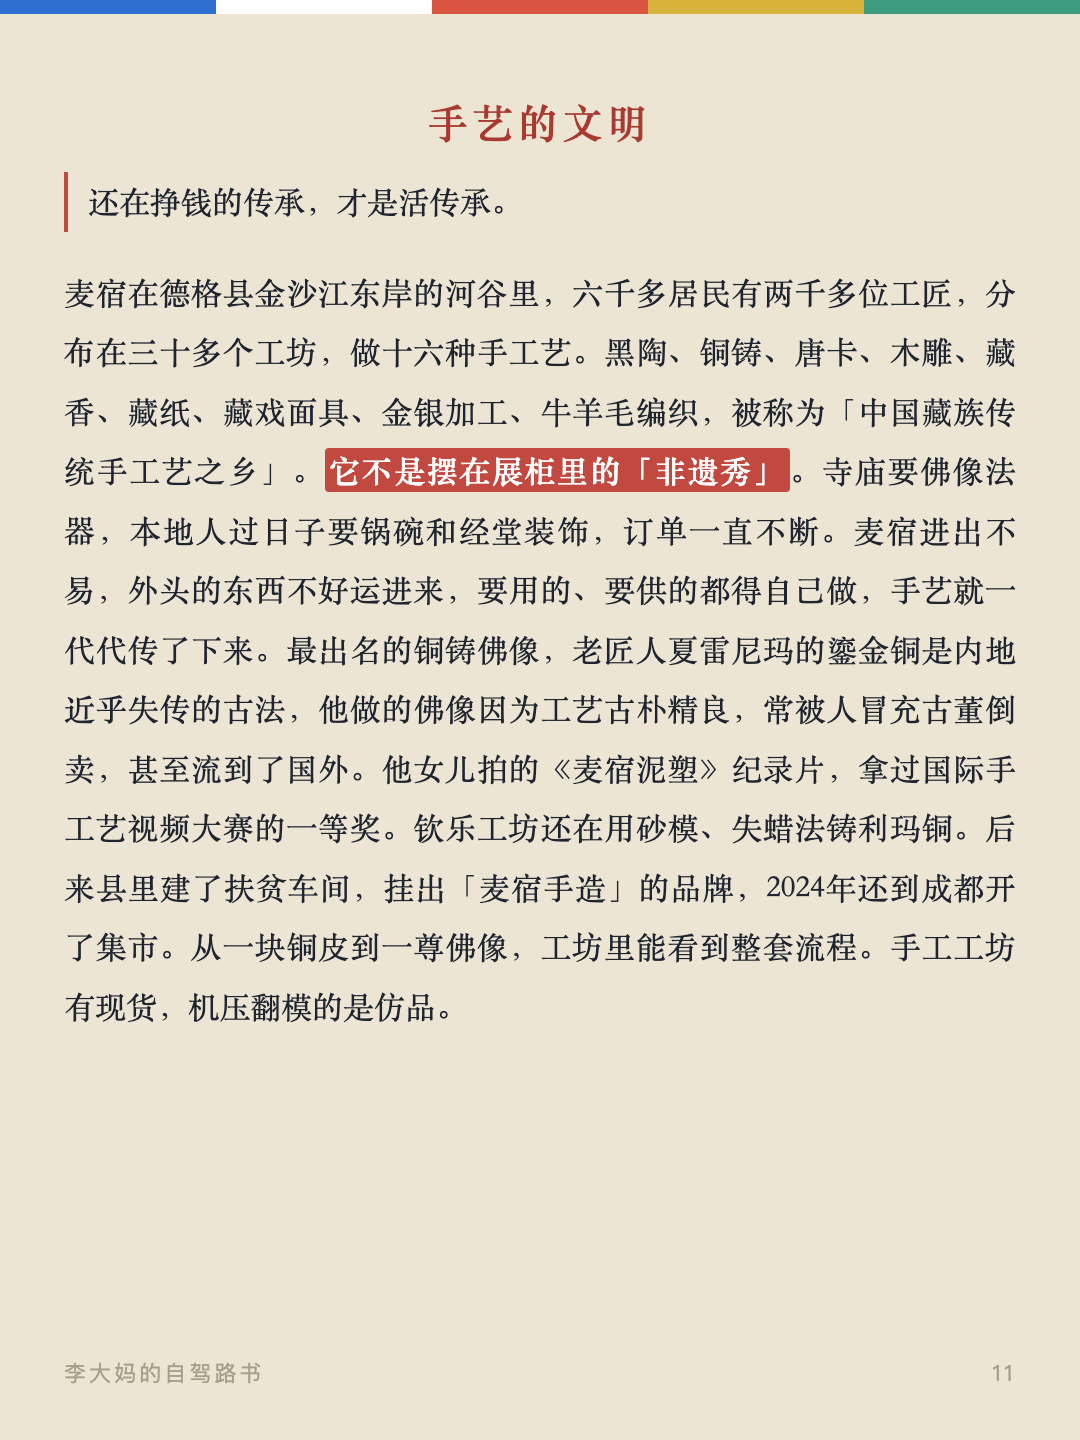
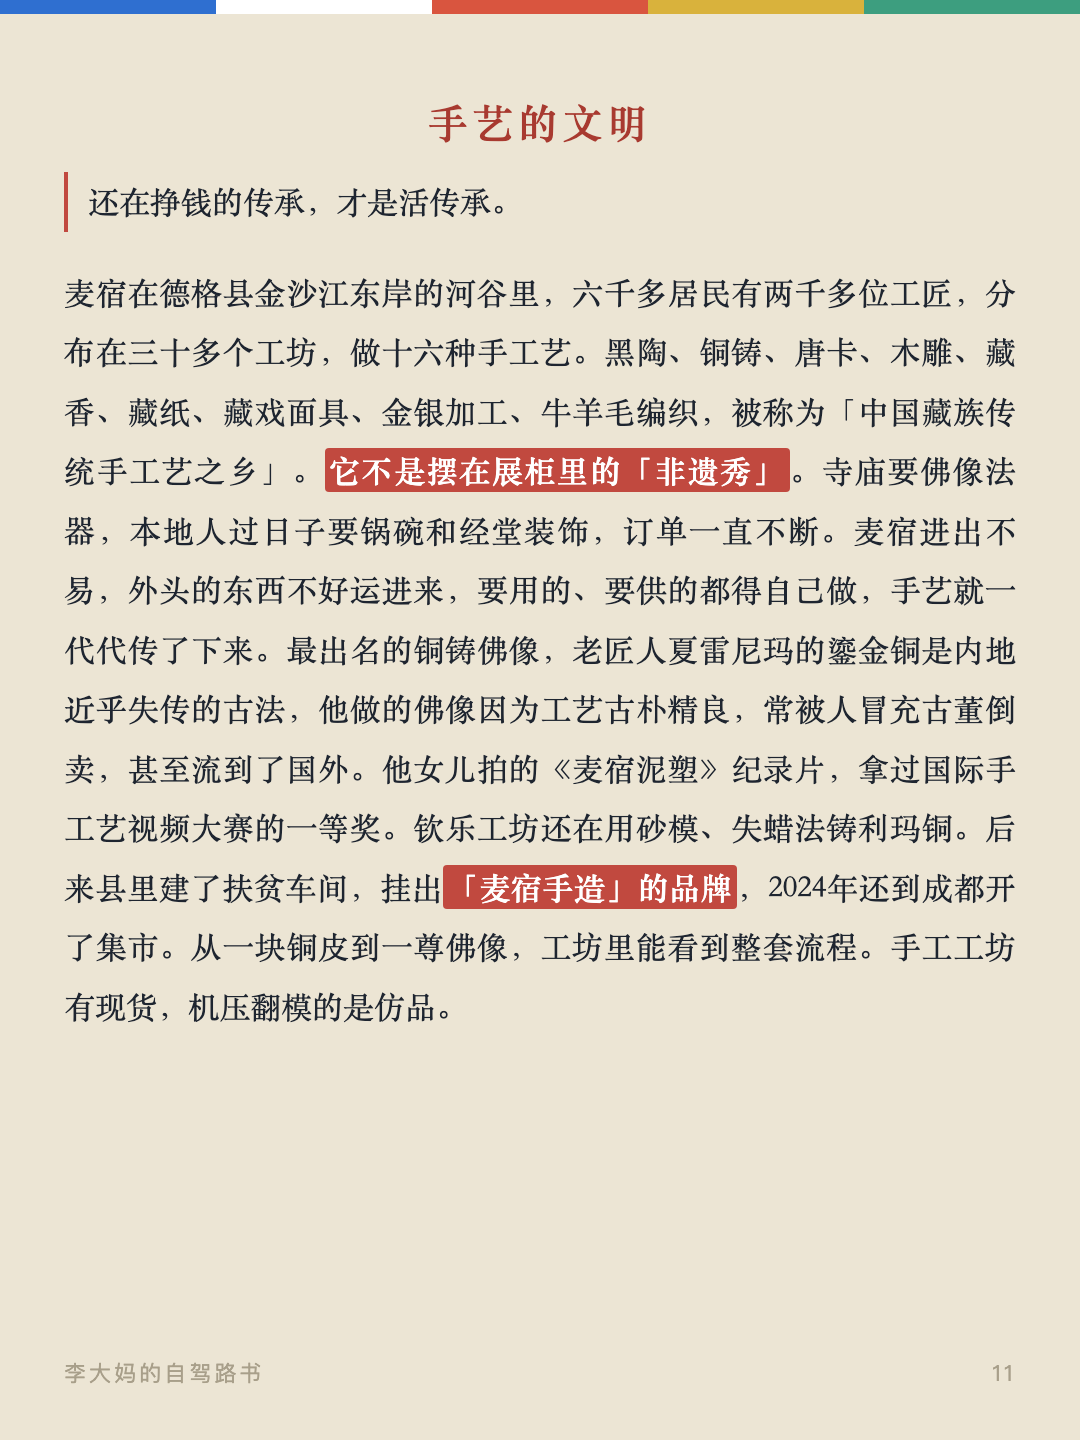
高亮「麦宿手造」品牌

Changed region(s): [[0.1222, 0.5938, 0.9167, 0.6562]]

diff --git a/cards.html b/cards.html
@@ -143,7 +143,7 @@
 
 <div class="card" id="card10"><div class="flag" aria-hidden="true"><span style="background:var(--flag-blue)"></span><span style="background:var(--flag-white)"></span><span style="background:var(--flag-red)"></span><span style="background:var(--flag-yellow)"></span><span style="background:var(--flag-green)"></span></div><div class="card__inner"><p>川西的佛学院，把藏地的学问办在草原和山沟里。寺院的分科叫「五明」：工巧明是工艺，医方明是医学，声明是语言文字，因明是逻辑论辩，内明是佛学；再加上修辞、辞藻、韵律、戏剧、历算五科，合称「十明」。色达的喇荣、白玉的亚青、德格的佐钦，都是宁玛派的大佛学院，学通五明的僧人，藏语称「班智达」。</p><p>三大佛学院里，亚青寺最出名的是觉姆岛。它在白玉县昌台草原，1985年由阿秋仁波切创建，是宁玛派的修行地。昌曲河绕寺流过，把女众修行区围成一座河心岛，就是「觉姆岛」，岛上密布上万间绛红色小木屋，住的是觉姆，也就是藏地的女性出家人。屋子是她们自己伐木、夯土、一钉一板搭起来的，每间不足十平方米，屋顶压着塑料布和泥土。<strong>男性三岁以上不上觉姆岛</strong>，岛外的男众不过桥。每年入冬，觉姆们钻进一间仅容一人的小屋，百日闭关，黄昏后才走出。山坡上立着一尊巨大的<span class="nowrap">莲花生大师金像。</span></p><div class="card__foot"><span>李大妈的自驾路书</span><span>10</span></div></div></div>
 
-<div class="card" id="card11"><div class="flag" aria-hidden="true"><span style="background:var(--flag-blue)"></span><span style="background:var(--flag-white)"></span><span style="background:var(--flag-red)"></span><span style="background:var(--flag-yellow)"></span><span style="background:var(--flag-green)"></span></div><div class="card__inner"><h2>手艺的文明</h2><p class="card__lead">还在挣钱的传承，才是活传承。</p><p>麦宿在德格县金沙江东岸的河谷里，六千多居民有两千多位工匠，分布在三十多个工坊，做十六种手工艺。黑陶、铜铸、唐卡、木雕、藏香、藏纸、藏戏面具、金银加工、牛羊毛编织，被称为「中国藏族传统手工艺之乡」。<strong>它不是摆在展柜里的「非遗秀」</strong>。寺庙要佛像法器，本地人过日子要锅碗和经堂装饰，订单一直不断。麦宿进出不易，外头的东西不好运进来，要用的、要供的都得自己做，手艺就一代代传了下来。最出名的铜铸佛像，老匠人夏雷尼玛的鎏金铜是内地近乎失传的古法，他做的佛像因为工艺古朴精良，常被人冒充古董倒卖，甚至流到了国外。他女儿拍的《麦宿泥塑》纪录片，拿过国际手工艺视频大赛的一等奖。钦乐工坊还在用砂模、失蜡法铸利玛铜。后来县里建了扶贫车间，挂出「麦宿手造」的品牌，2024年还到成都开了集市。从一块铜皮到一尊佛像，工坊里能看到整套流程。手工工坊有现货，机压翻模的是仿品。</p><div class="card__foot"><span>李大妈的自驾路书</span><span>11</span></div></div></div>
+<div class="card" id="card11"><div class="flag" aria-hidden="true"><span style="background:var(--flag-blue)"></span><span style="background:var(--flag-white)"></span><span style="background:var(--flag-red)"></span><span style="background:var(--flag-yellow)"></span><span style="background:var(--flag-green)"></span></div><div class="card__inner"><h2>手艺的文明</h2><p class="card__lead">还在挣钱的传承，才是活传承。</p><p>麦宿在德格县金沙江东岸的河谷里，六千多居民有两千多位工匠，分布在三十多个工坊，做十六种手工艺。黑陶、铜铸、唐卡、木雕、藏香、藏纸、藏戏面具、金银加工、牛羊毛编织，被称为「中国藏族传统手工艺之乡」。<strong>它不是摆在展柜里的「非遗秀」</strong>。寺庙要佛像法器，本地人过日子要锅碗和经堂装饰，订单一直不断。麦宿进出不易，外头的东西不好运进来，要用的、要供的都得自己做，手艺就一代代传了下来。最出名的铜铸佛像，老匠人夏雷尼玛的鎏金铜是内地近乎失传的古法，他做的佛像因为工艺古朴精良，常被人冒充古董倒卖，甚至流到了国外。他女儿拍的《麦宿泥塑》纪录片，拿过国际手工艺视频大赛的一等奖。钦乐工坊还在用砂模、失蜡法铸利玛铜。后来县里建了扶贫车间，挂出<strong>「麦宿手造」的品牌</strong>，2024年还到成都开了集市。从一块铜皮到一尊佛像，工坊里能看到整套流程。手工工坊有现货，机压翻模的是仿品。</p><div class="card__foot"><span>李大妈的自驾路书</span><span>11</span></div></div></div>
 
 <div class="card" id="card12"><div class="flag" aria-hidden="true"><span style="background:var(--flag-blue)"></span><span style="background:var(--flag-white)"></span><span style="background:var(--flag-red)"></span><span style="background:var(--flag-yellow)"></span><span style="background:var(--flag-green)"></span></div><div class="card__inner"><p>白玉河坡号称「格萨尔王的兵器库」，1300多年前就开始铸兵器，现在是国家级非遗「藏族金属锻造技艺」的代表，白玉藏刀最有名。13个行政村、230多家非遗工坊，<strong>是全国最大的藏族金属锻造群落</strong>，年订单超过1200万元。2025年8月，河坡手工艺文旅体融合园区开园，建起了藏族<span class="nowrap">金工博物馆</span>。</p><p>壤塘在阿坝州，藏语意思是「财神居住的地方」，核心是觉囊文化。2010年建起第一个觉囊唐卡传习所，<strong>免费教贫困家庭的青少年，一学六到八年</strong>。现在有20多个传习所、3项国家级非遗，壤巴拉非遗传习创业园8万多平方米，聚集唐卡、藏医药、藏陶、藏毯等16类手艺，2024年产值两千多万元。县里还在北京、上海、成都、深圳设了传习基地，60名学员接过故宫藏品唐卡复制的项目。觉囊唐卡工坊进了全国「非遗工坊典型案例」。唐卡的颜色从矿石里磨出来：蓝用青金石，红用朱砂，绿用孔雀石，金是真金箔。矿物不含有机成分，见光不褪色，<strong>一张唐卡放几百年也不变样</strong>。</p><p>德格印经院本身是一门还在运转的印刷产业。1729年建，藏了32万余块雕版，其中古旧印版22.8万块，<strong>是全世界手工木刻印版藏量最多的地方</strong>。经版内容不止经文：宗教、历史、医学、天文历算、文学、艺术都有，「藏文化大百科全书」这个外号就是这么来的。</p><div class="card__foot"><span>李大妈的自驾路书</span><span>12</span></div></div></div>
 

diff --git a/index.html b/index.html
@@ -275,7 +275,7 @@
     <section class="part" id="craft">
       <div class="part__head"><span class="part__no" aria-hidden="true">五</span><h2>手艺的文明</h2></div>
       <p class="part__lead">还在挣钱的传承，才是活传承。</p>
-      <p>麦宿在德格县金沙江东岸的河谷里，六千多居民有两千多位工匠，分布在三十多个工坊，做十六种手工艺。黑陶、铜铸、唐卡、木雕、藏香、藏纸、藏戏面具、金银加工、牛羊毛编织，被称为「中国藏族传统手工艺之乡」。<strong>它不是摆在展柜里的「非遗秀」</strong>。寺庙要佛像法器，本地人过日子要锅碗和经堂装饰，订单一直不断。麦宿进出不易，外头的东西不好运进来，要用的、要供的都得自己做，手艺就一代代传了下来。最出名的铜铸佛像，老匠人夏雷尼玛的鎏金铜是内地近乎失传的古法，他做的佛像因为工艺古朴精良，常被人冒充古董倒卖，甚至流到了国外。他女儿拍的《麦宿泥塑》纪录片，拿过国际手工艺视频大赛的一等奖。钦乐工坊还在用砂模、失蜡法铸利玛铜。后来县里建了扶贫车间，挂出「麦宿手造」的品牌，2024年还到成都开了集市。从一块铜皮到一尊佛像，工坊里能看到整套流程。手工工坊有现货，机压翻模的是仿品。</p>
+      <p>麦宿在德格县金沙江东岸的河谷里，六千多居民有两千多位工匠，分布在三十多个工坊，做十六种手工艺。黑陶、铜铸、唐卡、木雕、藏香、藏纸、藏戏面具、金银加工、牛羊毛编织，被称为「中国藏族传统手工艺之乡」。<strong>它不是摆在展柜里的「非遗秀」</strong>。寺庙要佛像法器，本地人过日子要锅碗和经堂装饰，订单一直不断。麦宿进出不易，外头的东西不好运进来，要用的、要供的都得自己做，手艺就一代代传了下来。最出名的铜铸佛像，老匠人夏雷尼玛的鎏金铜是内地近乎失传的古法，他做的佛像因为工艺古朴精良，常被人冒充古董倒卖，甚至流到了国外。他女儿拍的《麦宿泥塑》纪录片，拿过国际手工艺视频大赛的一等奖。钦乐工坊还在用砂模、失蜡法铸利玛铜。后来县里建了扶贫车间，挂出<strong>「麦宿手造」的品牌</strong>，2024年还到成都开了集市。从一块铜皮到一尊佛像，工坊里能看到整套流程。手工工坊有现货，机压翻模的是仿品。</p>
       <p>白玉河坡号称「格萨尔王的兵器库」，1300多年前就开始铸兵器，现在是国家级非遗「藏族金属锻造技艺」的代表，白玉藏刀最有名。13个行政村、230多家非遗工坊，<strong>是全国最大的藏族金属锻造群落</strong>，年订单超过1200万元。2025年8月，河坡手工艺文旅体融合园区开园，建起了藏族<span class="nowrap">金工博物馆</span>。</p>
       <p>壤塘在阿坝州，藏语意思是「财神居住的地方」，核心是觉囊文化。2010年建起第一个觉囊唐卡传习所，<strong>免费教贫困家庭的青少年，一学六到八年</strong>。现在有20多个传习所、3项国家级非遗，壤巴拉非遗传习创业园8万多平方米，聚集唐卡、藏医药、藏陶、藏毯等16类手艺，2024年产值两千多万元。县里还在北京、上海、成都、深圳设了传习基地，60名学员接过故宫藏品唐卡复制的项目。觉囊唐卡工坊进了全国「非遗工坊典型案例」。唐卡的颜色从矿石里磨出来：蓝用青金石，红用朱砂，绿用孔雀石，金是真金箔。矿物不含有机成分，见光不褪色，<strong>一张唐卡放几百年也不变样</strong>。</p>
       <p>德格印经院本身是一门还在运转的印刷产业。1729年建，藏了32万余块雕版，其中古旧印版22.8万块，<strong>是全世界手工木刻印版藏量最多的地方</strong>。经版内容不止经文：宗教、历史、医学、天文历算、文学、艺术都有，「藏文化大百科全书」这个外号就是这么来的。</p>

diff --git a/gen_cards.py b/gen_cards.py
@@ -69,7 +69,7 @@ BODY_STREAM = [
   ('p', '三大佛学院里，亚青寺最出名的是觉姆岛。它在白玉县昌台草原，1985年由阿秋仁波切创建，是宁玛派的修行地。昌曲河绕寺流过，把女众修行区围成一座河心岛，就是「觉姆岛」，岛上密布上万间绛红色小木屋，住的是觉姆，也就是藏地的女性出家人。屋子是她们自己伐木、夯土、一钉一板搭起来的，每间不足十平方米，屋顶压着塑料布和泥土。<strong>男性三岁以上不上觉姆岛</strong>，岛外的男众不过桥。每年入冬，觉姆们钻进一间仅容一人的小屋，百日闭关，黄昏后才走出。山坡上立着一尊巨大的<span class="nowrap">莲花生大师金像。</span>'),
   ('h2', '手艺的文明'),
   ('lead', '还在挣钱的传承，才是活传承。'),
-  ('p', '麦宿在德格县金沙江东岸的河谷里，六千多居民有两千多位工匠，分布在三十多个工坊，做十六种手工艺。黑陶、铜铸、唐卡、木雕、藏香、藏纸、藏戏面具、金银加工、牛羊毛编织，被称为「中国藏族传统手工艺之乡」。<strong>它不是摆在展柜里的「非遗秀」</strong>。寺庙要佛像法器，本地人过日子要锅碗和经堂装饰，订单一直不断。麦宿进出不易，外头的东西不好运进来，要用的、要供的都得自己做，手艺就一代代传了下来。最出名的铜铸佛像，老匠人夏雷尼玛的鎏金铜是内地近乎失传的古法，他做的佛像因为工艺古朴精良，常被人冒充古董倒卖，甚至流到了国外。他女儿拍的《麦宿泥塑》纪录片，拿过国际手工艺视频大赛的一等奖。钦乐工坊还在用砂模、失蜡法铸利玛铜。后来县里建了扶贫车间，挂出「麦宿手造」的品牌，2024年还到成都开了集市。从一块铜皮到一尊佛像，工坊里能看到整套流程。手工工坊有现货，机压翻模的是仿品。'),
+  ('p', '麦宿在德格县金沙江东岸的河谷里，六千多居民有两千多位工匠，分布在三十多个工坊，做十六种手工艺。黑陶、铜铸、唐卡、木雕、藏香、藏纸、藏戏面具、金银加工、牛羊毛编织，被称为「中国藏族传统手工艺之乡」。<strong>它不是摆在展柜里的「非遗秀」</strong>。寺庙要佛像法器，本地人过日子要锅碗和经堂装饰，订单一直不断。麦宿进出不易，外头的东西不好运进来，要用的、要供的都得自己做，手艺就一代代传了下来。最出名的铜铸佛像，老匠人夏雷尼玛的鎏金铜是内地近乎失传的古法，他做的佛像因为工艺古朴精良，常被人冒充古董倒卖，甚至流到了国外。他女儿拍的《麦宿泥塑》纪录片，拿过国际手工艺视频大赛的一等奖。钦乐工坊还在用砂模、失蜡法铸利玛铜。后来县里建了扶贫车间，挂出<strong>「麦宿手造」的品牌</strong>，2024年还到成都开了集市。从一块铜皮到一尊佛像，工坊里能看到整套流程。手工工坊有现货，机压翻模的是仿品。'),
   ('p', '白玉河坡号称「格萨尔王的兵器库」，1300多年前就开始铸兵器，现在是国家级非遗「藏族金属锻造技艺」的代表，白玉藏刀最有名。13个行政村、230多家非遗工坊，<strong>是全国最大的藏族金属锻造群落</strong>，年订单超过1200万元。2025年8月，河坡手工艺文旅体融合园区开园，建起了藏族<span class="nowrap">金工博物馆</span>。'),
   ('p', '壤塘在阿坝州，藏语意思是「财神居住的地方」，核心是觉囊文化。2010年建起第一个觉囊唐卡传习所，<strong>免费教贫困家庭的青少年，一学六到八年</strong>。现在有20多个传习所、3项国家级非遗，壤巴拉非遗传习创业园8万多平方米，聚集唐卡、藏医药、藏陶、藏毯等16类手艺，2024年产值两千多万元。县里还在北京、上海、成都、深圳设了传习基地，60名学员接过故宫藏品唐卡复制的项目。觉囊唐卡工坊进了全国「非遗工坊典型案例」。唐卡的颜色从矿石里磨出来：蓝用青金石，红用朱砂，绿用孔雀石，金是真金箔。矿物不含有机成分，见光不褪色，<strong>一张唐卡放几百年也不变样</strong>。'),
   ('p', '德格印经院本身是一门还在运转的印刷产业。1729年建，藏了32万余块雕版，其中古旧印版22.8万块，<strong>是全世界手工木刻印版藏量最多的地方</strong>。经版内容不止经文：宗教、历史、医学、天文历算、文学、艺术都有，「藏文化大百科全书」这个外号就是这么来的。'),
